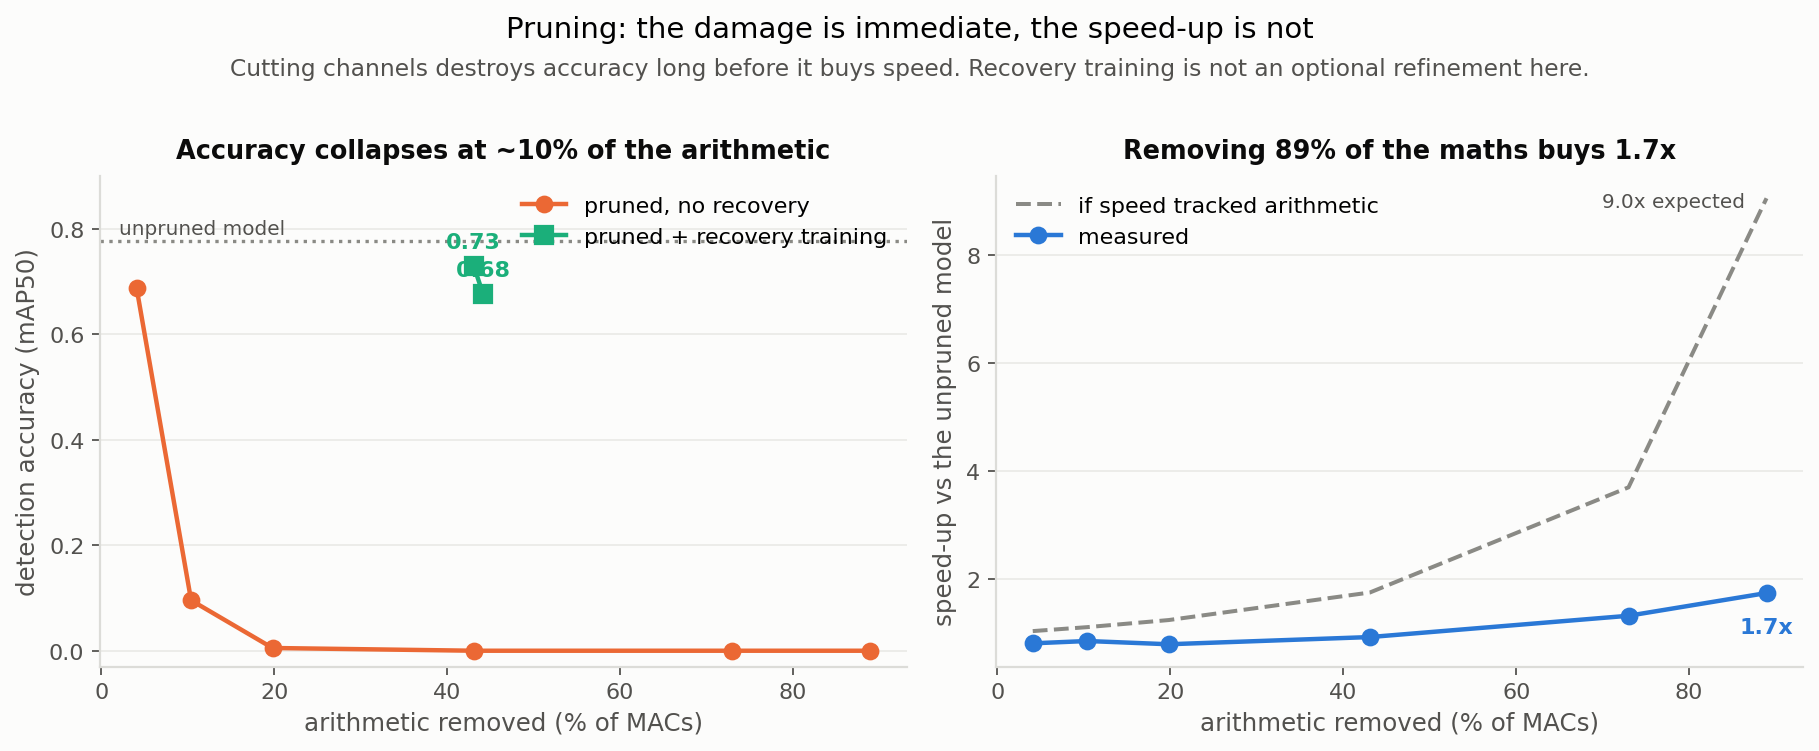
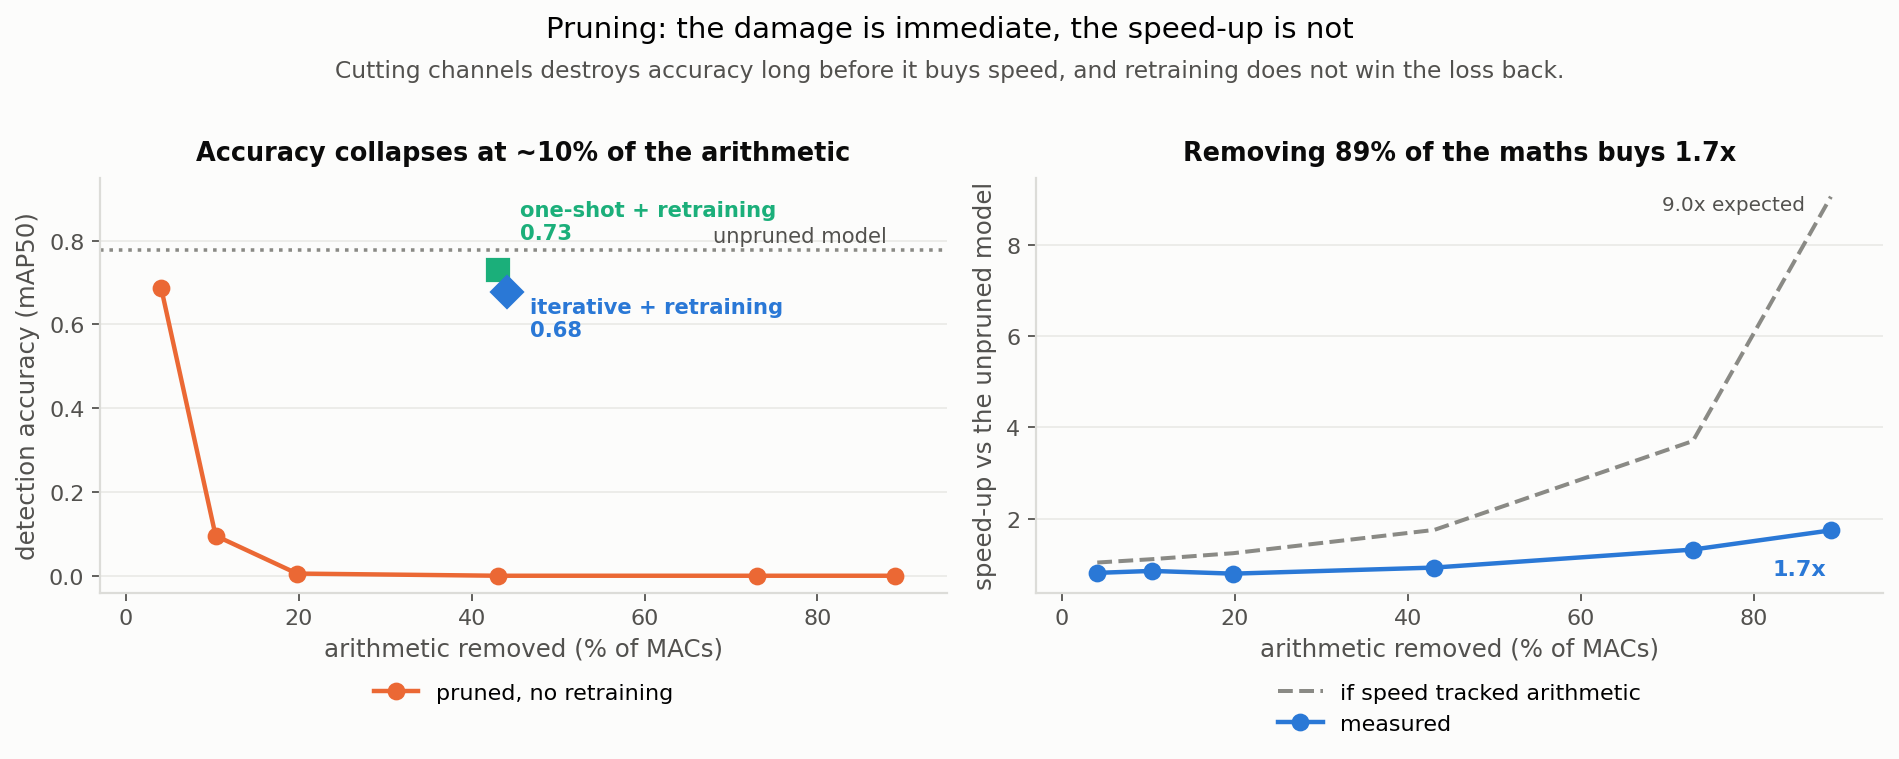
XP6 figure: show both recovery arms legibly
The two recovery arms land at almost the same x (43.1% and 44.1% of MACs), so
plotting them as a connected series put two markers and their labels on top of
each other and on top of the legend. They are now separate labelled markers with
their text placed apart, never joined by a line, and both legends sit below the
axes.

diff --git a/analysis/make_figures.py b/analysis/make_figures.py
@@ -481,66 +481,78 @@ def fig_xp12(records) -> Path | None:
 # --------------------------------------------------------------------------
 
 def fig_xp06(records) -> Path | None:
-    """Two things pruning does on this board, neither of them what you'd hope."""
+    """Two things pruning does on this board, neither of them what you would hope."""
     import matplotlib.pyplot as plt
 
     raw = sorted([r for r in records if "_nofinetune" in r["model_id"]],
                  key=lambda r: r["prune_meta"]["macs_reduction"])
     if len(raw) < 3:
         return None
-    rec = sorted([r for r in records if "_recovered_trt" in r["model_id"]],
-                 key=lambda r: r["prune_meta"]["macs_reduction"])
+    rec = {("iterative" if "_iter_" in r["model_id"] else "one-shot"): r
+           for r in records if "_recovered_trt" in r["model_id"]}
 
-    # The unpruned reference, measured under the same runtime as each series.
     base_pt = by_id(records, "dfire_yolov5s_published@512")
-    base_trt = by_id(records, "dfire_yolov5s_trt_fp16@512")
+    base_fps = base_pt["jetson"]["fps_batched"] if base_pt else raw[0]["jetson"]["fps_batched"]
+    base_acc = base_pt["map50_dfire_test"] if base_pt else None
 
-    fig, axes = plt.subplots(1, 2, figsize=(11.5, 4.4))
+    fig, axes = plt.subplots(1, 2, figsize=(12, 4.6))
     fig.suptitle("Pruning: the damage is immediate, the speed-up is not", y=1.06)
-    style.subtitle(fig, "Cutting channels destroys accuracy long before it buys speed. "
-                        "Recovery training is not an optional refinement here.", y=1.0)
+    style.subtitle(fig, "Cutting channels destroys accuracy long before it buys speed, and "
+                        "retraining does not win the loss back.", y=1.0)
 
     ax = axes[0]
     xs = [100 * r["prune_meta"]["macs_reduction"] for r in raw]
     ys = [r["map50_dfire_test"] for r in raw]
     ax.plot(xs, ys, "o-", color=style.ORANGE, linewidth=2, markersize=7,
-            label="pruned, no recovery", zorder=3)
-    if rec:
-        rxs = [100 * r["prune_meta"]["macs_reduction"] for r in rec]
-        rys = [r["map50_dfire_test"] for r in rec]
-        ax.plot(rxs, rys, "s-", color=style.AQUA, linewidth=2, markersize=8,
-                label="pruned + recovery training", zorder=4)
-        for x, y in zip(rxs, rys):
-            style.annotate(ax, x, y, f"{y:.2f}", dy=8, color=style.AQUA)
-    if base_pt:
-        ax.axhline(base_pt["map50_dfire_test"], color=style.MUTED, linestyle=":", zorder=2)
-        ax.text(2, base_pt["map50_dfire_test"] + 0.012, "unpruned model",
-                fontsize=9, color=style.INK_2)
+            label="pruned, no retraining", zorder=3)
+
+    # The two recovery arms sit at almost the same x (43.1% and 44.1% of MACs), so
+    # they are drawn as separate markers with labels placed apart, never joined by
+    # a line: two points at one x is not a trend.
+    marks = [("one-shot", "s", style.AQUA, (10, 14)),
+             ("iterative", "D", style.BLUE, (10, -20))]
+    for name, marker, colour, offset in marks:
+        r = rec.get(name)
+        if not r:
+            continue
+        x = 100 * r["prune_meta"]["macs_reduction"]
+        y = r["map50_dfire_test"]
+        ax.plot([x], [y], marker, color=colour, markersize=10, zorder=5)
+        ax.annotate(f"{name} + retraining\n{y:.2f}", (x, y), xytext=offset,
+                    textcoords="offset points", fontsize=9.5, color=colour,
+                    fontweight="bold", ha="left")
+
+    if base_acc:
+        ax.axhline(base_acc, color=style.MUTED, linestyle=":", linewidth=1.6, zorder=2)
+        ax.text(88, base_acc + 0.02, "unpruned model", fontsize=9.5,
+                color=style.INK_2, ha="right")
     ax.set_xlabel("arithmetic removed (% of MACs)")
     ax.set_ylabel("detection accuracy (mAP50)")
-    ax.set_ylim(-0.03, 0.9)
+    ax.set_ylim(-0.04, 0.95)
+    ax.set_xlim(-3, 95)
     ax.set_title("Accuracy collapses at ~10% of the arithmetic", fontsize=11.5, pad=8)
-    ax.legend(loc="upper right")
+    ax.legend(loc="upper center", bbox_to_anchor=(0.5, -0.17))
     style.tidy(ax)
 
-    # Panel 2 — the FLOPs-vs-speed reality check.
+    # Panel 2 - the arithmetic-versus-speed reality check.
     ax = axes[1]
     fps = [r["jetson"]["fps_batched"] for r in raw]
-    base_fps = base_pt["jetson"]["fps_batched"] if base_pt else fps[0]
-    ideal = [100 / (100 - x) for x in xs]                 # if speed tracked arithmetic
+    ideal = [100 / (100 - x) for x in xs]
     actual = [f / base_fps for f in fps]
     ax.plot(xs, ideal, "--", color=style.MUTED, linewidth=1.8,
             label="if speed tracked arithmetic", zorder=3)
     ax.plot(xs, actual, "o-", color=style.BLUE, linewidth=2, markersize=7,
             label="measured", zorder=4)
-    style.annotate(ax, xs[-1], actual[-1], f"{actual[-1]:.1f}x", dy=-18, color=style.BLUE)
-    style.annotate(ax, xs[-1], ideal[-1], f"{ideal[-1]:.1f}x expected", dx=-42, dy=-4,
+    style.annotate(ax, xs[-1], actual[-1], f"{actual[-1]:.1f}x", dx=-14, dy=-20,
+                   color=style.BLUE)
+    style.annotate(ax, xs[-1], ideal[-1], f"{ideal[-1]:.1f}x expected", dx=-44, dy=-6,
                    color=style.INK_2, weight="normal", size=9)
     ax.set_xlabel("arithmetic removed (% of MACs)")
     ax.set_ylabel("speed-up vs the unpruned model")
+    ax.set_xlim(-3, 95)
     ax.set_title(f"Removing {xs[-1]:.0f}% of the maths buys {actual[-1]:.1f}x",
                  fontsize=11.5, pad=8)
-    ax.legend(loc="upper left")
+    ax.legend(loc="upper center", bbox_to_anchor=(0.5, -0.17))
     style.tidy(ax)
 
     fig.tight_layout()
